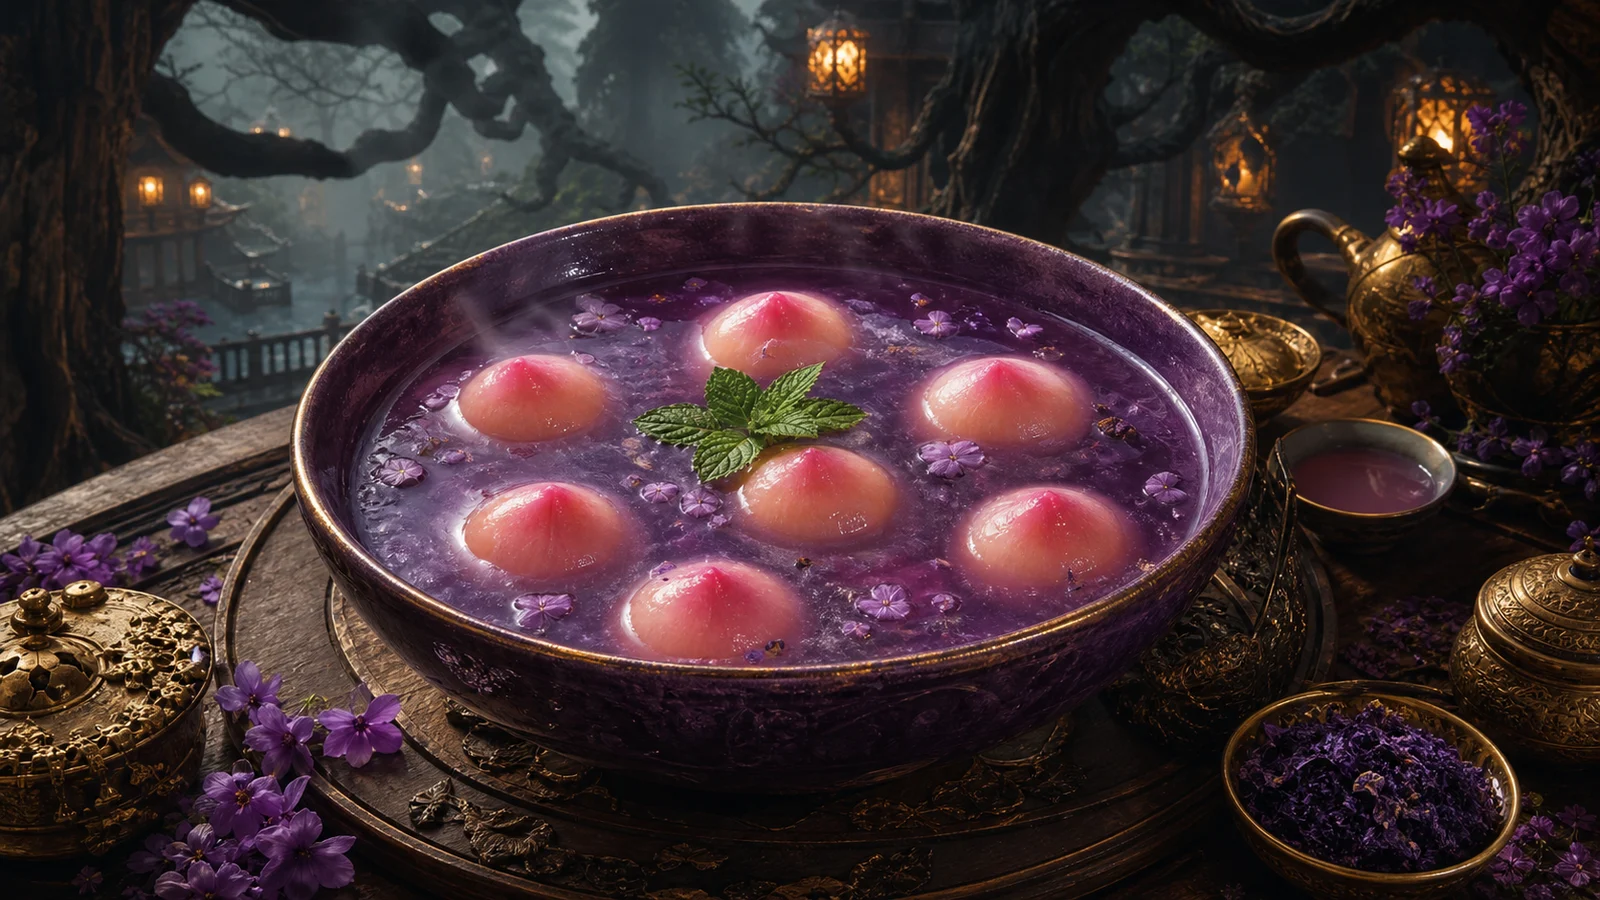
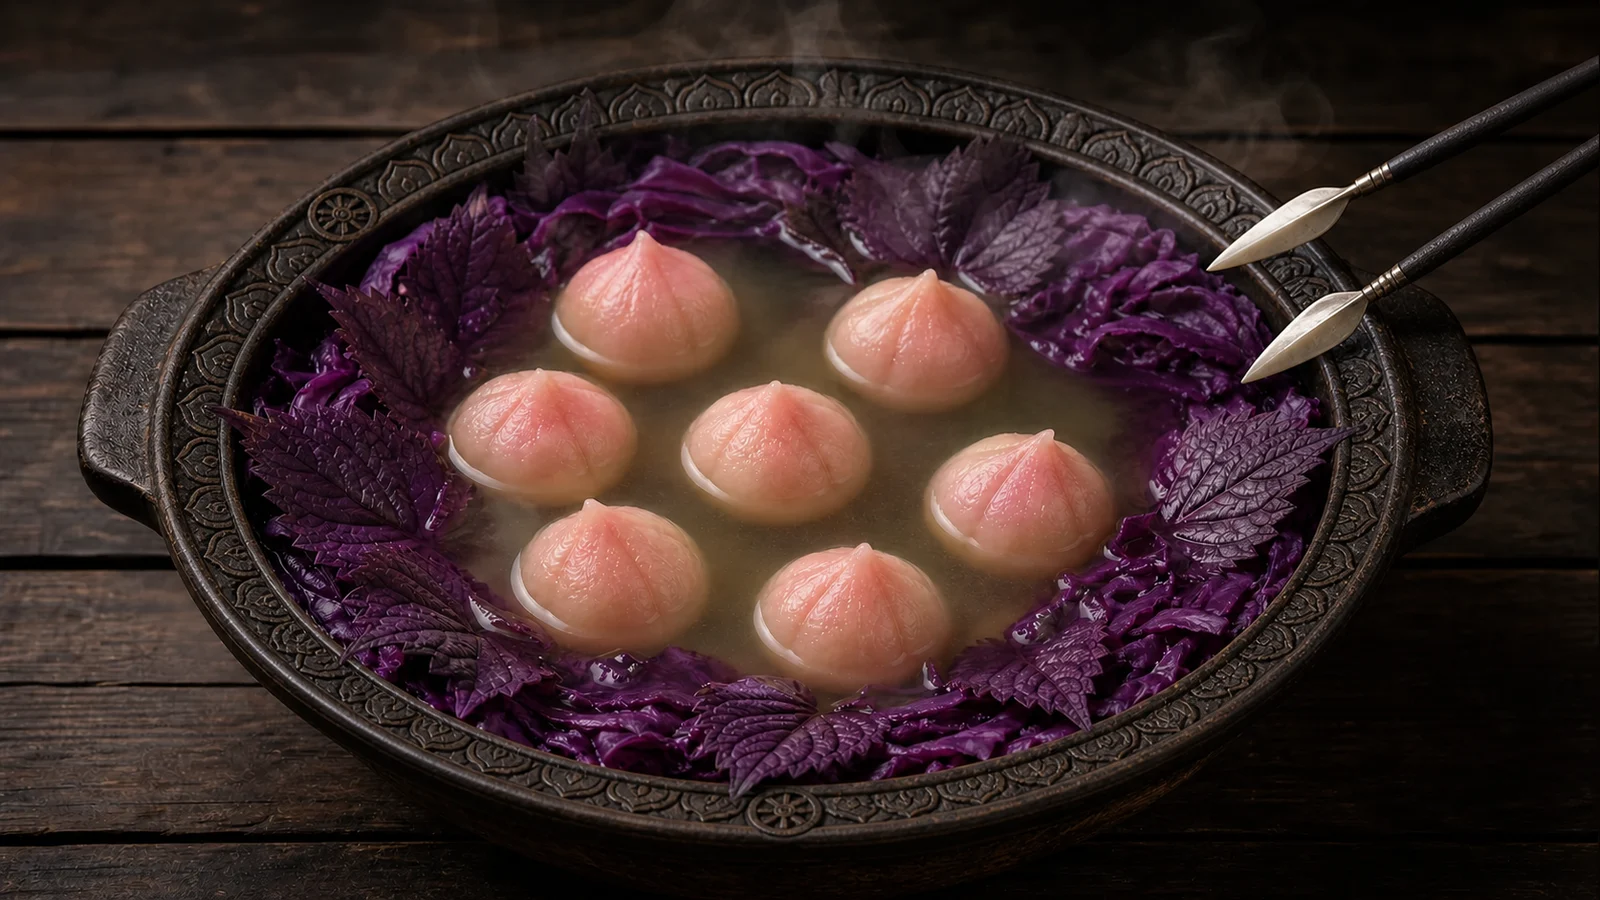
content: revise purple herb seven peaches

diff --git a/src/content/menu-items/purple-herb-seven-peaches.md b/src/content/menu-items/purple-herb-seven-peaches.md
@@ -3,19 +3,22 @@ title: "紫草炖七桃"
 slug: "purple-herb-seven-peaches"
 map: "聚窟洲"
 category: "怪菜"
-description: "紫色甜汤围住七枚桃形果脯，颜色先声夺人，滋味随后登场。"
+description: "七枚浅粉桃形糯米团浮在紫叶清汤中，汤雾轻绕，入口软糯清甜，专为席间解腻润喉。"
 order: 6
-dishIntro: "清汤小煲里藏着七枚浅粉桃形糯米团，紫色可食叶片从四周轻轻围拢。七枚都能数清，“炖”则是本站把草间趣事转成菜品的二创写法。"
-dishSetting: "紫苏与紫甘蓝铺在陶煲边缘，七枚桃形糯米团浮在薄雾清汤中，一双长筷从叶片间探入。画面只借“草里七个胡桃”的公开社区叙述构成发现瞬间，不复刻原视频、角色或武器。"
-playerComment: "本站席间趣评：先别急着动筷，数到七颗再开席，少一颗都算雾气藏得太认真。"
+dishIntro: "温润透亮的清汤陶煲端上桌时裹挟着淡淡白雾，煲中静静浮着七枚轮廓圆润的浅粉桃形糯米团，每一枚都清晰可辨，煲身四周环绕堆叠着柔软的紫色可食叶片，层层交错如同野外丛生的紫草，视觉柔和雅致。汤底清润甘甜，糯米团软糯不粘牙，入口清甜温润，能够很好抚平口腔里厚重辛辣的刺激。整道甜煲以文火慢炖的形式映射聚窟洲草丛埋伏的趣味江湖轶事，品尝起来舒缓惬意，是宴席之中解腻润喉的特色甜汤。"
+dishSetting: "粗陶煲内壁四周铺匀紫苏与紫甘蓝，模拟野外成片丛生的紫草地貌，七枚小巧的桃形糯米团完整浮在萦绕薄烟的清汤之内，两柄黑色枪杆、白色枪头的短枪从层层紫叶缝隙间向内探伸，完整呈现拨开草木寻觅物件的画面。陶煲外沿刻有克制的莲瓣与法轮浮雕，增添庄重古朴的器物质感。全程文火慢煨，汤底清透无厚重油脂，桃团色泽粉嫩均匀，摆盘简约柔和。"
+playerComment: "上桌之后切莫着急举筷品尝，一定要先清点清楚汤里七颗桃团再正式开席。若是薄雾朦胧遮挡视线，一时数不全团子，同桌食客便会互相打趣，笑说是煲中雾气把桃团藏得太过严实，如同对局里紫草草丛藏着蹲守的侠客，不仔细探查便难以发觉。"
 recommendedPairing: "搭配火男怒火颠勺，以清汤糯香缓和猛火快炒的焦辣锅气。"
 relatedElements:
-  - "草里七个胡桃的公开社区叙述"
-  - "七枚桃形糯米团"
-  - "紫色可食叶片与探入长筷"
+  - "玩家社区流传的“草里七个胡桃”相关叙述"
+  - "七枚桃形糯米团对应草丛中多名同角色相遇的玩家联想"
+  - "紫苏与紫甘蓝营造紫草藏身点位意象"
+  - "探入叶丛的两柄黑杆白头短枪表现拨开草木寻觅对手"
+  - "陶煲外沿的莲瓣与法轮浮雕增添庄重古朴的器物意象"
+  - "蹲草偶遇与赛后闲谈的餐桌化二创"
 image:
   src: "/assets/dishes/menu/purple-herb-seven-peaches.webp"
-  alt: "深紫陶钵中盛着紫色甜汤和七枚浅粉桃形团子，中央点缀薄荷，背景为雾林暖灯"
+  alt: "带莲瓣与法轮浮雕的黑色粗陶煲盛着清汤和七枚浅粉桃形糯米团，两柄黑杆白头短枪从紫叶间探入"
   credit: "AI 生成原创视觉，由项目维护者整理"
   license: "项目原创生成图，仅供本站非商业展示"
 ---

diff --git a/docs/visual-asset-register.md b/docs/visual-asset-register.md
@@ -60,7 +60,7 @@
 | `public/assets/dishes/menu/guaranteed-red-four-platter.webp` | “开箱必出红四拼盘”菜单卡片、详情和推荐图 | 四格鎏金方盘内摆着红袍形乳鸽藕糕、酱烤肋排、焗大虾与山楂糖饰，宝箱造型托盘周围升起白雾 | OpenAI 内置 imagegen；项目维护者整理 | 项目原创生成图，仅供本站非商业展示；使用抽象花纹、宝箱意象与通用食材造型，不含官方素材，不代表官方概念设计 |
 | `public/assets/dishes/menu/jidi-city-red-sausage.webp` | “极帝城红肠”菜单卡片、详情和推荐图 | 黑色长盘上铺满焦边红肠厚片、香草和深色浆果，背景是青光洞壁、铜屏与紫色星点 | OpenAI 内置 imagegen；项目维护者整理 | 项目原创生成图，仅供本站非商业展示；抽象洞窟宴席不对应官方地标，不代表官方概念设计 |
 | `public/assets/dishes/menu/kunlun-snow-lotus.webp` | “昆仑净雪莲”菜单卡片、详情和推荐图 | 浅青冰盏中盛着清澈冷饮与霜白莲形冻，四周铺有碎冰，背景为明亮沙漠宫席 | OpenAI 内置 imagegen；项目维护者整理 | 项目原创生成图，仅供本站非商业展示；不含官方素材，不代表官方概念设计 |
-| `public/assets/dishes/menu/purple-herb-seven-peaches.webp` | “紫草炖七桃”菜单卡片、详情和推荐图 | 深紫陶钵中盛着紫色甜汤和七枚浅粉桃形团子，中央点缀薄荷，背景为雾林暖灯 | OpenAI 内置 imagegen；项目维护者整理 | 项目原创生成图，仅供本站非商业展示；不含官方素材，不代表官方概念设计 |
+| `public/assets/dishes/menu/purple-herb-seven-peaches.webp` | “紫草炖七桃”菜单卡片、详情和推荐图 | 带莲瓣与法轮浮雕的黑色粗陶煲盛着清汤和七枚浅粉桃形糯米团，两柄黑杆白头短枪从紫叶间探入 | OpenAI 内置 imagegen；项目维护者整理 | 项目原创生成图，仅供本站非商业展示；短枪与陶煲纹饰均为通用原创设计，不含角色、游戏画面或官方素材，不代表官方概念设计 |
 | `public/assets/dishes/menu/spicy-sand-konjac.webp` | “麻辣沙魔芋”菜单卡片、详情和推荐图 | 黑色大盘中堆叠红油魔芋片、辣椒与金黄酥屑，背景为扬沙中的古城宴席 | OpenAI 内置 imagegen；项目维护者整理 | 项目原创生成图，仅供本站非商业展示；不含官方素材，不代表官方概念设计 |
 | `public/assets/dishes/menu/wolf-rib-platter.webp` | “狼行千里吃排骨肉”菜单卡片、详情和推荐图 | 粗陶盘上堆叠酱亮焦香的炭烤肋排，背景为月夜草地与营火 | OpenAI 内置 imagegen；项目维护者整理 | 项目原创生成图，仅供本站非商业展示；不含官方素材，不代表官方概念设计 |
 | `public/assets/dishes/menu/zhang-forbidden-mushroom-sea-firefly-soup.webp` | “张家禁地鲜蘑菇海萤汤”菜单卡片、详情和推荐图 | 黑色深盏中盛着鲜蘑清汤与冷青色可食珠，背景是粗粝洞壁、铜屏和散落紫色星光 | OpenAI 内置 imagegen；项目维护者整理 | 项目原创生成图，仅供本站非商业展示；抽象洞窟宴席不对应官方地标，不代表官方概念设计 |

diff --git a/docs/research/menu-image-review.md b/docs/research/menu-image-review.md
@@ -25,7 +25,7 @@
 | 开箱必出红四拼盘 | `public/assets/dishes/menu/guaranteed-red-four-platter.webp` | 聚窟洲 | 清晰；鎏金方盘内四类赤红食物和宝箱造型托盘均完整可见 | 绛红、鎏金、墨绿、雾白 | 未见文字或文字伪影、人物、Logo、游戏 UI、截图或可识别官方素材；盘面花纹、托盘和食物轮廓均为抽象原创设计，不复刻官方宝箱、返魂花图标或武器模型 | 通过，可用于本站非商业展示 |
 | 极帝城红肠 | `public/assets/dishes/menu/jidi-city-red-sausage.webp` | 龙隐洞天 | 清晰；厚切红肠为前景主体 | 深红、青蓝、紫金 | 未见文字或文字伪影、人物、Logo、游戏 UI、截图或可识别官方素材；青光洞壁、铜屏与散落紫色光点为抽象原创环境，不对应官方 UI 或地图地标 | 通过，可用于本站非商业展示 |
 | 昆仑净雪莲 | `public/assets/dishes/menu/kunlun-snow-lotus.webp` | 火罗国 | 清晰；白色莲形冻与浅青冰饮居中 | 霜白、浅青、沙金 | 未见文字或文字伪影、人物、Logo、游戏 UI、截图或可识别官方素材；明亮沙漠宴席为通用原创场景 | 通过，可用于本站非商业展示 |
-| 紫草炖七桃 | `public/assets/dishes/menu/purple-herb-seven-peaches.webp` | 聚窟洲 | 清晰；紫色汤中七枚桃形团子可数且突出 | 紫罗兰、桃粉、暗金 | 未见文字或文字伪影、人物、Logo、游戏 UI、截图或可识别官方素材；林中席面为通用原创场景 | 通过，可用于本站非商业展示 |
+| 紫草炖七桃 | `public/assets/dishes/menu/purple-herb-seven-peaches.webp` | 聚窟洲 | 清晰；清汤中的七枚浅粉桃形糯米团完整可数，紫叶环绕煲边，两柄黑杆白头短枪从叶间探入，煲沿带莲瓣与法轮浮雕 | 紫罗兰、桃粉、陶黑、象牙白 | 未见文字或文字伪影、人物、Logo、游戏 UI、截图或可识别官方素材；短枪造型与陶煲纹饰为通用原创器物元素，不复刻可识别游戏武器或标识 | 通过，可用于本站非商业展示 |
 | 麻辣沙魔芋 | `public/assets/dishes/menu/spicy-sand-konjac.webp` | 火罗国 | 清晰；红油魔芋、辣椒与酥屑为明确主体 | 沙金、焦橙、辣椒红 | 未见文字或文字伪影、人物、Logo、游戏 UI、截图或可识别官方素材；沙城背景为通用原创场景 | 通过，可用于本站非商业展示 |
 | 狼行千里吃排骨肉 | `public/assets/dishes/menu/wolf-rib-platter.webp` | 聚窟洲 | 清晰；堆叠炭烤肋排占据画面中心 | 酱褐、炭黑、月夜蓝 | 未见文字或文字伪影、人物、Logo、游戏 UI、截图或可识别官方素材；月夜野外背景为通用原创环境，不含狼或游戏角色 | 通过，可用于本站非商业展示 |
 | 张家禁地鲜蘑菇海萤汤 | `public/assets/dishes/menu/zhang-forbidden-mushroom-sea-firefly-soup.webp` | 龙隐洞天 | 清晰；菌菇清汤与冷青色可食珠为明确主体 | 冷青、曜黑、紫光 | 未见文字或文字伪影、人物、Logo、游戏 UI、截图或可识别官方素材；粗粝洞壁、铜屏与散落紫色光点为抽象原创环境，不对应官方地标或概念图 | 通过，可用于本站非商业展示 |
